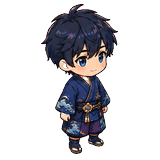
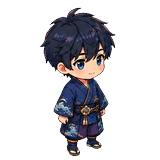
feat(osanpo): 8方向3コマの歩行アニメ(立ち→右足→左足＋上下ゆれ)/仮想学習者に触れるとプロフィール＋応援コメント6種/ワープを石段のみに厳格化/木を最前面レイヤー化(裏に隠れる)/木の根元(石垣・柵・ベンチ・灯籠)に当たり判定/実マップをMAP.pngへ統一

Changed region(s): [[0.25, 0.0, 0.75, 1.0]]

diff --git a/src/screens/KotobaTownScreen.tsx b/src/screens/KotobaTownScreen.tsx
@@ -13,16 +13,19 @@ import type { RootStackParamList } from '../navigation/types';
 import { VIRTUAL_LEARNERS, type VirtualLearner, type NpcColor } from '../plaza/virtualLearners';
 
 type Dir = 'down' | 'up' | 'left' | 'right' | 'downleft' | 'downright' | 'upleft' | 'upright';
-const HERO: Record<Dir, number> = {
-  down: require('../../assets/kotoba/hero/down.png'),
-  up: require('../../assets/kotoba/hero/up.png'),
-  left: require('../../assets/kotoba/hero/left.png'),
-  right: require('../../assets/kotoba/hero/right.png'),
-  downleft: require('../../assets/kotoba/hero/downleft.png'),
-  downright: require('../../assets/kotoba/hero/downright.png'),
-  upleft: require('../../assets/kotoba/hero/upleft.png'),
-  upright: require('../../assets/kotoba/hero/upright.png'),
+// 各方向 [両足立ち, 右足前, 左足前]。歩行時に 立ち→右→立ち→左 で切り替え=歩いて見える。
+const HERO: Record<Dir, number[]> = {
+  down: [require('../../assets/kotoba/hero/down.png'), require('../../assets/kotoba/hero/down_r.png'), require('../../assets/kotoba/hero/down_l.png')],
+  up: [require('../../assets/kotoba/hero/up.png'), require('../../assets/kotoba/hero/up_r.png'), require('../../assets/kotoba/hero/up_l.png')],
+  left: [require('../../assets/kotoba/hero/left.png'), require('../../assets/kotoba/hero/left_r.png'), require('../../assets/kotoba/hero/left_l.png')],
+  right: [require('../../assets/kotoba/hero/right.png'), require('../../assets/kotoba/hero/right_r.png'), require('../../assets/kotoba/hero/right_l.png')],
+  downleft: [require('../../assets/kotoba/hero/downleft.png'), require('../../assets/kotoba/hero/downleft_r.png'), require('../../assets/kotoba/hero/downleft_l.png')],
+  downright: [require('../../assets/kotoba/hero/downright.png'), require('../../assets/kotoba/hero/downright_r.png'), require('../../assets/kotoba/hero/downright_l.png')],
+  upleft: [require('../../assets/kotoba/hero/upleft.png'), require('../../assets/kotoba/hero/upleft_r.png'), require('../../assets/kotoba/hero/upleft_l.png')],
+  upright: [require('../../assets/kotoba/hero/upright.png'), require('../../assets/kotoba/hero/upright_r.png'), require('../../assets/kotoba/hero/upright_l.png')],
 };
+const WALK_CYCLE = [0, 1, 0, 2]; // 立ち→右足→立ち→左足
+const WALK_STEP = 0.15;          // 1コマの秒数
 // 8方向スナップ表(入力角 atan2 の 45度セクタ→向きと単位ベクトル)。画面yは下向き正。
 const INV = Math.SQRT1_2;
 const DIR8: { d: Dir; ux: number; uy: number }[] = [
@@ -37,22 +40,36 @@ const DIR8: { d: Dir; ux: number; uy: number }[] = [
 ];
 const MAP_DAY = require('../../assets/kotoba/map/day.jpg');
 const MAP_NIGHT = require('../../assets/kotoba/map/night.jpg');
+const MAP_TREE = require('../../assets/kotoba/map/tree.png'); // 中央の木だけの透過レイヤー(最前面=人が裏に隠れる)
 
 const WORLD = 1024;            // マップ表示サイズ(正方)。当たり判定グリッドはこの中を MAP_G 等分。
 const CELL = WORLD / MAP_G;
 const SPRITE = 64;            // マップ上のアバター背丈(≒基準の女の子。赤枠 約70x67 より少し小さめ)
 const SPEED = 160;            // px/秒
-const START_COL = 24, START_ROW = 27;
+const START_COL = 24, START_ROW = 28;
 const STICK_R = 54;          // スティック外周半径
 const DEADZONE = 10;
 
-// ワープ枠(WORLD=1024座標)。足元がこの矩形に入ったら対応画面へ。各建物の石段の前に配置。
+// ワープ枠(WORLD=1024座標)。足元がこの小さな石段矩形に乗って初めて発火(反応距離ほぼ0)。全建物共通で石段のみ。
 type WarpTarget = 'Shop' | 'MockIntro' | 'Words' | 'Dict';
 const WARP_ZONES: { x: number; y: number; w: number; h: number; t: WarpTarget }[] = [
-  { x: 120, y: 300, w: 195, h: 105, t: 'Shop' },      // 左上・女の子=ショップ
-  { x: 630, y: 255, w: 205, h: 135, t: 'MockIntro' }, // 右上・模試会場=模試(説明画面から)
-  { x: 610, y: 495, w: 210, h: 135, t: 'Words' },     // 右中・書斎=単語タブ
-  { x: 370, y: 735, w: 215, h: 135, t: 'Dict' },      // 下・書庫=辞書タブ
+  { x: 190, y: 300, w: 98, h: 48, t: 'Shop' },       // 左上・女の子の受付前=ショップ
+  { x: 702, y: 330, w: 98, h: 48, t: 'MockIntro' },  // 右上・模試会場の石段=模試(説明画面から)
+  { x: 702, y: 556, w: 96, h: 50, t: 'Words' },      // 右中・書斎の石段=単語タブ
+  { x: 452, y: 796, w: 108, h: 50, t: 'Dict' },      // 下・書庫の石段=辞書タブ
+];
+
+// 中央の木レイヤーの配置(day.jpgから切り出した tree.png を最前面に同位置で重ねる)。
+const TREE = { x: 340, y: 178, w: 266, h: 320 };
+
+// 応援コメント(固定6種・自由入力なし=荒らし不可)。仮想学習者にも送れる(ローカル反応のみ)。
+const CHEERS: { key: string; emoji: string; label: string; reply: string }[] = [
+  { key: 'flower', emoji: '🌷', label: 'お花をおくる', reply: 'わあ、ありがとう！' },
+  { key: 'ganbare', emoji: '💪', label: 'がんばって', reply: 'うん、がんばる！' },
+  { key: 'sugoi', emoji: '🎉', label: 'すごい！', reply: 'えへへ、うれしい！' },
+  { key: 'issho', emoji: '🤝', label: '一緒にがんばろう', reply: 'こちらこそ、一緒に！' },
+  { key: 'otsukare', emoji: '☕', label: 'おつかれさま', reply: 'ありがとう、ひと休みするね' },
+  { key: 'nice', emoji: '🌸', label: 'いいね', reply: 'ありがとう！' },
 ];
 
 // 当たり判定(足元がマップの'.'か)。プレイヤー・NPC共通。座標=スプライト左上。
@@ -75,7 +92,8 @@ const NPC_SPRITES: Record<NpcColor, Record<Card4, number>> = {
 };
 
 // 1体のNPC: home周辺(半径約2.4マス)をゆっくり4方向で徘徊。頭上に国旗+名前+レベルの名札。表示専用。
-function NpcSprite({ v }: { v: VirtualLearner }) {
+// sink: 親が近接判定に使う現在位置の共有先(pos.current の参照を渡し、毎フレーム親から読める)。
+function NpcSprite({ v, sink }: { v: VirtualLearner; sink: Record<string, { x: number; y: number }> }) {
   const home = useRef({ x: (v.home.col + 0.5) * CELL - SPRITE / 2, y: (v.home.row + 0.5) * CELL - SPRITE * 0.82 }).current;
   const pos = useRef({ x: home.x, y: home.y });
   const target = useRef({ x: home.x, y: home.y });
@@ -93,6 +111,7 @@ function NpcSprite({ v }: { v: VirtualLearner }) {
   }, [bob]);
 
   useEffect(() => {
+    sink[v.id] = pos.current; // 親が近接判定に読む(参照共有=毎フレーム最新)
     let raf = 0, last = 0, wait = 400 + Math.random() * 2600;
     const NSPEED = 40, R = 2.4 * CELL; // ゆっくり・home周辺だけ
     const frame = (ts: number) => {
@@ -123,7 +142,7 @@ function NpcSprite({ v }: { v: VirtualLearner }) {
       raf = requestAnimationFrame(frame);
     };
     raf = requestAnimationFrame(frame);
-    return () => cancelAnimationFrame(raf);
+    return () => { cancelAnimationFrame(raf); delete sink[v.id]; };
   }, []); // eslint-disable-line react-hooks/exhaustive-deps
 
   const by = bob.interpolate({ inputRange: [0, 1], outputRange: [0, -3] });
@@ -147,6 +166,23 @@ export default function KotobaTownScreen() {
   const [dir, setDir] = useState<Dir>('down');
   const dirRef = useRef<Dir>('down');
   const [moving, setMoving] = useState(false);
+  const [poseIdx, setPoseIdx] = useState(0); // 0=立ち/1=右足/2=左足
+
+  // 仮想学習者との会話。npcPos=各NPCの現在位置(子から共有)。talk=会話中の相手。sent=送信後の反応。
+  const npcPos = useRef<Record<string, { x: number; y: number }>>({}).current;
+  const [talk, setTalk] = useState<VirtualLearner | null>(null);
+  const [sent, setSent] = useState<{ emoji: string; reply: string } | null>(null);
+  const talkRef = useRef<VirtualLearner | null>(null);
+  const talkArmed = useRef(true);
+  const closeTimer = useRef<ReturnType<typeof setTimeout> | null>(null);
+  const openTalk = (v: VirtualLearner) => { talkRef.current = v; setSent(null); setTalk(v); };
+  const closeTalk = () => { if (closeTimer.current) { clearTimeout(closeTimer.current); closeTimer.current = null; } talkRef.current = null; setTalk(null); setSent(null); };
+  const sendCheer = (c: { emoji: string; reply: string }) => {
+    setSent({ emoji: c.emoji, reply: c.reply });
+    if (closeTimer.current) clearTimeout(closeTimer.current);
+    closeTimer.current = setTimeout(() => closeTalk(), 1800);
+  };
+  useEffect(() => () => { if (closeTimer.current) clearTimeout(closeTimer.current); }, []);
 
   const worldOff = useRef(new Animated.ValueXY({ x: 0, y: 0 })).current;
   const playerPos = useRef(new Animated.ValueXY({ x: start.x, y: start.y })).current;
@@ -175,8 +211,8 @@ export default function KotobaTownScreen() {
 
   // 移動ループ。input は単位ベクトル→斜めでも一定速度。X/Yを別々に当たり判定=壁ずり。
   useEffect(() => {
-    let raf = 0; let last = 0; let wasMoving = false;
-    const frame = (ts: number) => {
+    let raf = 0; let last = 0; let wasMoving = false; let walkPhase = 0;
+    const tick = (ts: number) => {
       if (!last) last = ts;
       const dt = Math.min(0.05, (ts - last) / 1000); last = ts;
       const { dx, dy } = input.current;
@@ -188,16 +224,27 @@ export default function KotobaTownScreen() {
         if (walkable(pos.current.x, ny)) pos.current.y = ny;
         playerPos.setValue({ x: pos.current.x, y: pos.current.y });
         applyCamera();
-        // 足元がワープ枠に入ったら画面遷移(石段を上がったら)。
+        // 歩行アニメ: 立ち→右→立ち→左 を一定間隔で切り替え。
+        walkPhase += dt;
+        const wf = WALK_CYCLE[Math.floor(walkPhase / WALK_STEP) % WALK_CYCLE.length];
+        setPoseIdx((p) => (p === wf ? p : wf));
+        // 足元がワープ枠(石段)に乗ったら画面遷移。枠は石段だけの小さな矩形=触れて初めて反応。
         const fx = pos.current.x + SPRITE / 2, fy = pos.current.y + SPRITE * 0.82;
         const z = WARP_ZONES.find((q) => fx >= q.x && fx <= q.x + q.w && fy >= q.y && fy <= q.y + q.h);
         if (z && warpArmed.current) { warpArmed.current = false; input.current = { dx: 0, dy: 0 }; warp(z.t); }
         else if (!z) warpArmed.current = true;
+        // 仮想学習者に触れたら会話カードを開く(接触=距離ほぼ0)。一度離れるまで再オープンしない。
+        if (!talkRef.current) {
+          let near: VirtualLearner | null = null, best = 1e9;
+          for (const vl of VIRTUAL_LEARNERS) { const p = npcPos[vl.id]; if (!p) continue; const d = Math.hypot(fx - (p.x + SPRITE / 2), fy - (p.y + SPRITE * 0.82)); if (d < best) { best = d; near = vl; } }
+          if (near && best < 26 && talkArmed.current) { talkArmed.current = false; input.current = { dx: 0, dy: 0 }; openTalk(near); }
+          else if (!near || best > 52) talkArmed.current = true;
+        }
       }
-      if (isMoving !== wasMoving) { wasMoving = isMoving; setMoving(isMoving); }
-      raf = requestAnimationFrame(frame);
+      if (isMoving !== wasMoving) { wasMoving = isMoving; setMoving(isMoving); if (!isMoving) { walkPhase = 0; setPoseIdx(0); } }
+      raf = requestAnimationFrame(tick);
     };
-    raf = requestAnimationFrame(frame);
+    raf = requestAnimationFrame(tick);
     return () => cancelAnimationFrame(raf);
   }, []); // eslint-disable-line react-hooks/exhaustive-deps
 
@@ -240,12 +287,16 @@ export default function KotobaTownScreen() {
       {/* マップ(カメラで動く世界。プレイヤーも world 内に置く) */}
       <View style={s.viewport}>
         <Animated.View style={{ position: 'absolute', width: WORLD, height: WORLD, transform: [{ translateX: worldOff.x }, { translateY: worldOff.y }] }}>
+          {/* 下: マップ本体 */}
           <Image source={MAP_IMG} style={{ position: 'absolute', width: WORLD, height: WORLD }} resizeMode="cover" />
-          {/* 仮想の学習者(NPC)。プレイヤーより先に描く=自分が手前に来る。 */}
-          {VIRTUAL_LEARNERS.map((v) => <NpcSprite key={v.id} v={v} />)}
+          {/* 中: 仮想の学習者(NPC) */}
+          {VIRTUAL_LEARNERS.map((v) => <NpcSprite key={v.id} v={v} sink={npcPos} />)}
+          {/* 中: 自分(NPCより手前) */}
           <Animated.View style={{ position: 'absolute', width: SPRITE, height: SPRITE, transform: [{ translateX: playerPos.x }, { translateY: playerPos.y }] }}>
-            <Animated.Image source={HERO[dir]} style={{ width: SPRITE, height: SPRITE, transform: [{ translateY: bobY }] }} resizeMode="contain" />
+            <Animated.Image source={HERO[dir][poseIdx]} style={{ width: SPRITE, height: SPRITE, transform: [{ translateY: bobY }] }} resizeMode="contain" />
           </Animated.View>
+          {/* 上: 木のレイヤー(人より前面=木の裏に回ると隠れる)。day.jpgと同じ位置に重ねる。 */}
+          <Image source={MAP_TREE} style={{ position: 'absolute', left: TREE.x, top: TREE.y, width: TREE.w, height: TREE.h }} resizeMode="stretch" />
         </Animated.View>
       </View>
 
@@ -257,7 +308,8 @@ export default function KotobaTownScreen() {
         </View>
       </SafeAreaView>
 
-      {/* 操作(アナログスティック・斜めOK) */}
+      {/* 操作(アナログスティック・斜めOK)。会話中は隠す=足を止めて話す。 */}
+      {!talk && (
       <SafeAreaView edges={['bottom']} style={s.bottom} pointerEvents="box-none">
         <View style={s.stickWrap}>
           <View style={s.stickBase} {...pan.panHandlers}>
@@ -265,6 +317,47 @@ export default function KotobaTownScreen() {
           </View>
         </View>
       </SafeAreaView>
+      )}
+
+      {/* 仮想学習者の会話カード(データ表示＋応援コメント) */}
+      {talk && (
+        <View style={s.talkWrap}>
+          <Pressable style={StyleSheet.absoluteFill} onPress={closeTalk} />
+          <View style={s.talkCard}>
+            <Pressable onPress={closeTalk} hitSlop={10} style={s.talkClose}><Ionicons name="close" size={20} color="#3a3128" /></Pressable>
+            <View style={s.talkHead}>
+              <View style={s.talkAvatar}><Image source={NPC_SPRITES[talk.color].down} style={{ width: 54, height: 54 }} resizeMode="contain" /></View>
+              <View style={{ flex: 1 }}>
+                <Text style={s.talkName}>{talk.flag} {talk.nick}</Text>
+                <View style={s.talkStats}>
+                  <View style={s.lvlBadge}><Text style={s.lvlBadgeT}>{talk.level}</Text></View>
+                  <Text style={s.talkStatT}>🔥 連続{talk.streak}日</Text>
+                  <Text style={s.talkStatT}>✏ 今日{talk.today}問</Text>
+                </View>
+              </View>
+            </View>
+            {sent ? (
+              <View style={s.sentBox}>
+                <Text style={s.sentEmoji}>{sent.emoji}</Text>
+                <Text style={s.sentT}>応援を送りました！</Text>
+                <Text style={s.sentReply}>{talk.nick}「{sent.reply}」</Text>
+              </View>
+            ) : (
+              <>
+                <Text style={s.cheerTitle}>応援コメントを送る</Text>
+                <View style={s.cheerGrid}>
+                  {CHEERS.map((c) => (
+                    <Pressable key={c.key} style={s.cheerBtn} onPress={() => sendCheer(c)}>
+                      <Text style={s.cheerEmoji}>{c.emoji}</Text>
+                      <Text style={s.cheerLabel} numberOfLines={1}>{c.label}</Text>
+                    </Pressable>
+                  ))}
+                </View>
+              </>
+            )}
+          </View>
+        </View>
+      )}
     </View>
   );
 }
@@ -283,4 +376,23 @@ const s = StyleSheet.create({
   stickKnob: { width: 60, height: 60, borderRadius: 30, backgroundColor: 'rgba(255,253,248,0.9)', borderWidth: 2, borderColor: 'rgba(58,49,40,0.4)' },
   npcTag: { position: 'absolute', top: -14, backgroundColor: 'rgba(58,49,40,0.8)', borderRadius: 7, paddingHorizontal: 5, paddingVertical: 1, maxWidth: 130 },
   npcTagT: { color: '#fff', fontSize: 9, fontWeight: '700' },
+  talkWrap: { ...StyleSheet.absoluteFillObject, alignItems: 'center', justifyContent: 'center', backgroundColor: 'rgba(0,0,0,0.28)' },
+  talkCard: { width: '86%', maxWidth: 360, backgroundColor: '#fffdf8', borderRadius: 18, padding: 16, borderWidth: 1, borderColor: 'rgba(58,49,40,0.15)' },
+  talkClose: { position: 'absolute', top: 8, right: 8, width: 30, height: 30, borderRadius: 15, alignItems: 'center', justifyContent: 'center', zIndex: 2 },
+  talkHead: { flexDirection: 'row', alignItems: 'center', gap: 12, marginBottom: 14, paddingRight: 24 },
+  talkAvatar: { width: 62, height: 62, borderRadius: 31, backgroundColor: 'rgba(58,49,40,0.06)', alignItems: 'center', justifyContent: 'center' },
+  talkName: { fontSize: 17, fontWeight: '900', color: '#3a3128', marginBottom: 5 },
+  talkStats: { flexDirection: 'row', alignItems: 'center', gap: 8, flexWrap: 'wrap' },
+  lvlBadge: { backgroundColor: '#3a6ea5', borderRadius: 6, paddingHorizontal: 6, paddingVertical: 1 },
+  lvlBadgeT: { color: '#fff', fontSize: 11, fontWeight: '900' },
+  talkStatT: { fontSize: 12, color: '#6b5d4d', fontWeight: '700' },
+  cheerTitle: { fontSize: 13, fontWeight: '800', color: '#6b5d4d', marginBottom: 8 },
+  cheerGrid: { flexDirection: 'row', flexWrap: 'wrap', gap: 8 },
+  cheerBtn: { width: '47%', flexDirection: 'row', alignItems: 'center', gap: 6, backgroundColor: '#f3ece0', borderRadius: 12, paddingVertical: 11, paddingHorizontal: 10 },
+  cheerEmoji: { fontSize: 18 },
+  cheerLabel: { fontSize: 12.5, fontWeight: '800', color: '#3a3128', flexShrink: 1 },
+  sentBox: { alignItems: 'center', paddingVertical: 16, gap: 6 },
+  sentEmoji: { fontSize: 42 },
+  sentT: { fontSize: 15, fontWeight: '900', color: '#3a3128' },
+  sentReply: { fontSize: 13, color: '#6b5d4d', fontWeight: '600' },
 });

diff --git a/src/plaza/mapCollision.ts b/src/plaza/mapCollision.ts
@@ -1,6 +1,6 @@
-// 自動生成(色解析): 昼マップ「正方形 昼夏MAP2.jpg」の当たり判定。`.`=歩ける / `#`=止まる。
-// 緩め方針: 止まるのは家(濃い屋根)・池・上部の空・外周のみ。木/草/石畳は歩ける。中央の木は裏まで一周可。
-// 再生成は _tmp_map2.mjs 相当のスクリプトで。手で編集しない。
+// 自動生成(色解析): 昼マップ「正方形 昼夏MAP.png」の当たり判定。`.`=歩ける / `#`=止まる。
+// 緩め方針: 家/池/上部の空/外周は止まる。木の葉/草/石畳は歩ける。
+// 木の根元は石垣・柵・ベンチ・灯籠・幹を止まる判定に(色検出＋石垣は楕円シール)。外周の石畳で木を一周できる。
 export const MAP_G = 48;
 export const MAP_WALK: string[] = [
   "################################################",
@@ -14,28 +14,28 @@ export const MAP_WALK: string[] = [
   "#...###########......#######...#################",
   "#..#############.........##....#################",
   "#..############..........#.......######.######.#",
-  "#..#.#####.####................#..###########..#",
-  "#..#..####.#.##...............#...#####..#..####",
+  "#..#.#####.####..............#.#..###########..#",
+  "#..#..####.#.##...............#..######..#..####",
   "#..#######..####...............#..#####....#####",
-  "###############......................###.####..#",
-  "#.#########..........................##..##....#",
-  "#...##..................................##.....#",
-  "#.............................................##",
-  "#......#.......................................#",
-  "#............................#.................#",
-  "#..#..........##..............##...............#",
-  "#............#.##............##.#..............#",
-  "#.............#................#.......###.....#",
-  "#..#...................................#####...#",
-  "#.............#..#....................##########",
-  "#...............#.#.......#.........############",
-  "#.......................##..........############",
-  "#....................................###########",
-  "#.#.................................############",
-  "#...................................############",
-  "#.....#...............#............#############",
-  "#...#....##..........####..........#########..##",
-  "#.##...###..........#######...............######",
+  "################................#....########..#",
+  "#.#########......................#...##..##....#",
+  "#...##...........................#......##.....#",
+  "#.................................#...........##",
+  "#......#.........#....##....#..................#",
+  "#.............##.#....##.##.####...............#",
+  "#..#.........#####...#####..#####..............#",
+  "#............#.##...#######..##.##.............#",
+  "#.#..........##...#.########...#.......###.....#",
+  "#..#..........##..#..#####.#...........#####...#",
+  "#.............####..##.###...#........##########",
+  "#...............#.#.##.####.........############",
+  "#....................#..##..#.......############",
+  "#.......................#............###########",
+  "#.#................................#############",
+  "#.....................#.............############",
+  "#.....#..............###...........#############",
+  "#...#....##........#######.........#########..##",
+  "#.##...###.........#########..............######",
   "#.#...####.......#############.............###.#",
   "##...##.###.......##############...........#...#",
   "#........##.......##############...............#",
@@ -44,7 +44,7 @@ export const MAP_WALK: string[] = [
   "#........##.......###############..............#",
   "#......####........##...########...............#",
   "#.....####...............######................#",
-  "#........#.........#.....####..................#",
+  "#........#...............####..................#",
   "#.........................#....................#",
   "#..............................................#",
   "#..............................................#",

diff --git a/memory/session-summary-LATEST.md b/memory/session-summary-LATEST.md
@@ -1,15 +1,13 @@
 # 前セッション圧縮情報
 
 ## 何をしたか
-- ツール呼び出し 14 回・30 ターン
-- 往復 6104 回
 
 ## 何が変わったか
 - memory/handoff.md
-- 画像/キャラクター/アバター/男の子右 - コピー.png
-- src/screens/KotobaTownScreen.tsx
-- src/plaza/virtualLearners.ts
-- 画像/キャラクター/アバター/男の子右.png
+- 画像/キャラクター/アバター/男の子左.png
+- 画像/キャラクター/アバター/背中左足.png
+- 画像/キャラクター/アバター/正面右足.png
+- memory/session-summary-LATEST.md
 
 ## 次の一手
 - **🎯 面別マスタリー統合復習＝P1-P6完了・ビルド2654 both dispatch=run`30700408364`（監視しない・2026-08-01）**: 苦手度を単語×面(read/write/mean/listen/grammar)に一本化し忘却曲線で「今日のおすすめ(=試験問題の復習)」を出す統合復習。設計=`docs/superpowers/specs/2026-08-01-unified-facet-review-design.md`／実装プラン=`docs/superpowers/plans/2026-08-01-unified-facet-review.md`／詳細inflight=`memory/facet-review-inflight.md`。**入口=ホーム(AIコーチのアドバイス末尾CTA)＋書斎タブ(桜tap/トップカード)。試験・辞書には出さない(ユーザー方針)。試験タブの全部混ぜは撤去**。用法→語のmean/文法系→文法pointのgrammarへ統合(設計§3.1)。生データ(items/テレメトリ)は不変=面は要約層(additive)。予想得点は面参照。新規テスト52件・全372緑・tsc0。コミット=P1`18bce99`/P2`ea015d4`/P3`14f2093`/P4`6fa3976`/P5`c09dee5`/P5.5`c988b30`/P6`03a274a8`＋ラベル変更(「今日のおすすめ」)。**✅P7書き取り2ターン化=実装済(学習5字[なぞり/見て書くスイッチ]→見ずにテスト5字・合格でwrite面へ)**。**残=P8実機検証**。**✅ビルド2662 both dispatch=run`30701715650`（監視しない・2026-08-01）に今セッション全変更を反映**(統合復習P1-P7・試験タブのミックス撤去・新ラベル「今日のオススメ問題に挑戦する」・書き取り2ターン化・類義語是正・貝二重加算修正等)。build.ps1 -NoCommit -NoWatchで投入(番号=2000+662commit)。**別件確認済**=予想得点の大問重みは既に本番出題数重み(均等割りでない)＝是正不要。**✅build.ps1修正済**(コミット済・push済)=`$APP`をリポジトリルート(tools/の親)へ・前提チェックはapp.json存在・`-NoWatch`追加(dispatch後監視しない運用に合わせた口)。`-DryRun`で34緑/tsc0確認。以後は`tools\build.ps1 -Message "..." -NoWatch`でビルド可(番号=2000+commit)。**⚠ラベル変更(「今日のおすすめ」)はビルド2654に未反映=次ビルドで入る**。

diff --git a/memory/handoff.md b/memory/handoff.md
@@ -42,14 +42,14 @@
 - a83565e1b69fe6554 general-purpose
 
 ## 直近24時間の変更ファイル（自動）
-- 画像/キャラクター/アバター/男の子右 - コピー.png
+- 画像/キャラクター/アバター/男の子左.png
+- 画像/キャラクター/アバター/背中左足.png
+- 画像/キャラクター/アバター/正面右足.png
+- memory/session-summary-LATEST.md
+- memory/handoff.md
 - src/screens/KotobaTownScreen.tsx
-- src/plaza/virtualLearners.ts
-- 画像/キャラクター/アバター/男の子右.png
-- assets/kotoba/npc/amber_right.png
-- assets/kotoba/npc/amber_left.png
-- assets/kotoba/npc/amber_up.png
-- assets/kotoba/npc/amber_down.png
+- src/plaza/mapCollision.ts
+- assets/kotoba/map/tree.png
 
-_自動更新: 2026-08-05 08:00_
+_自動更新: 2026-08-05 12:05_
 <!-- AUTO:END -->
